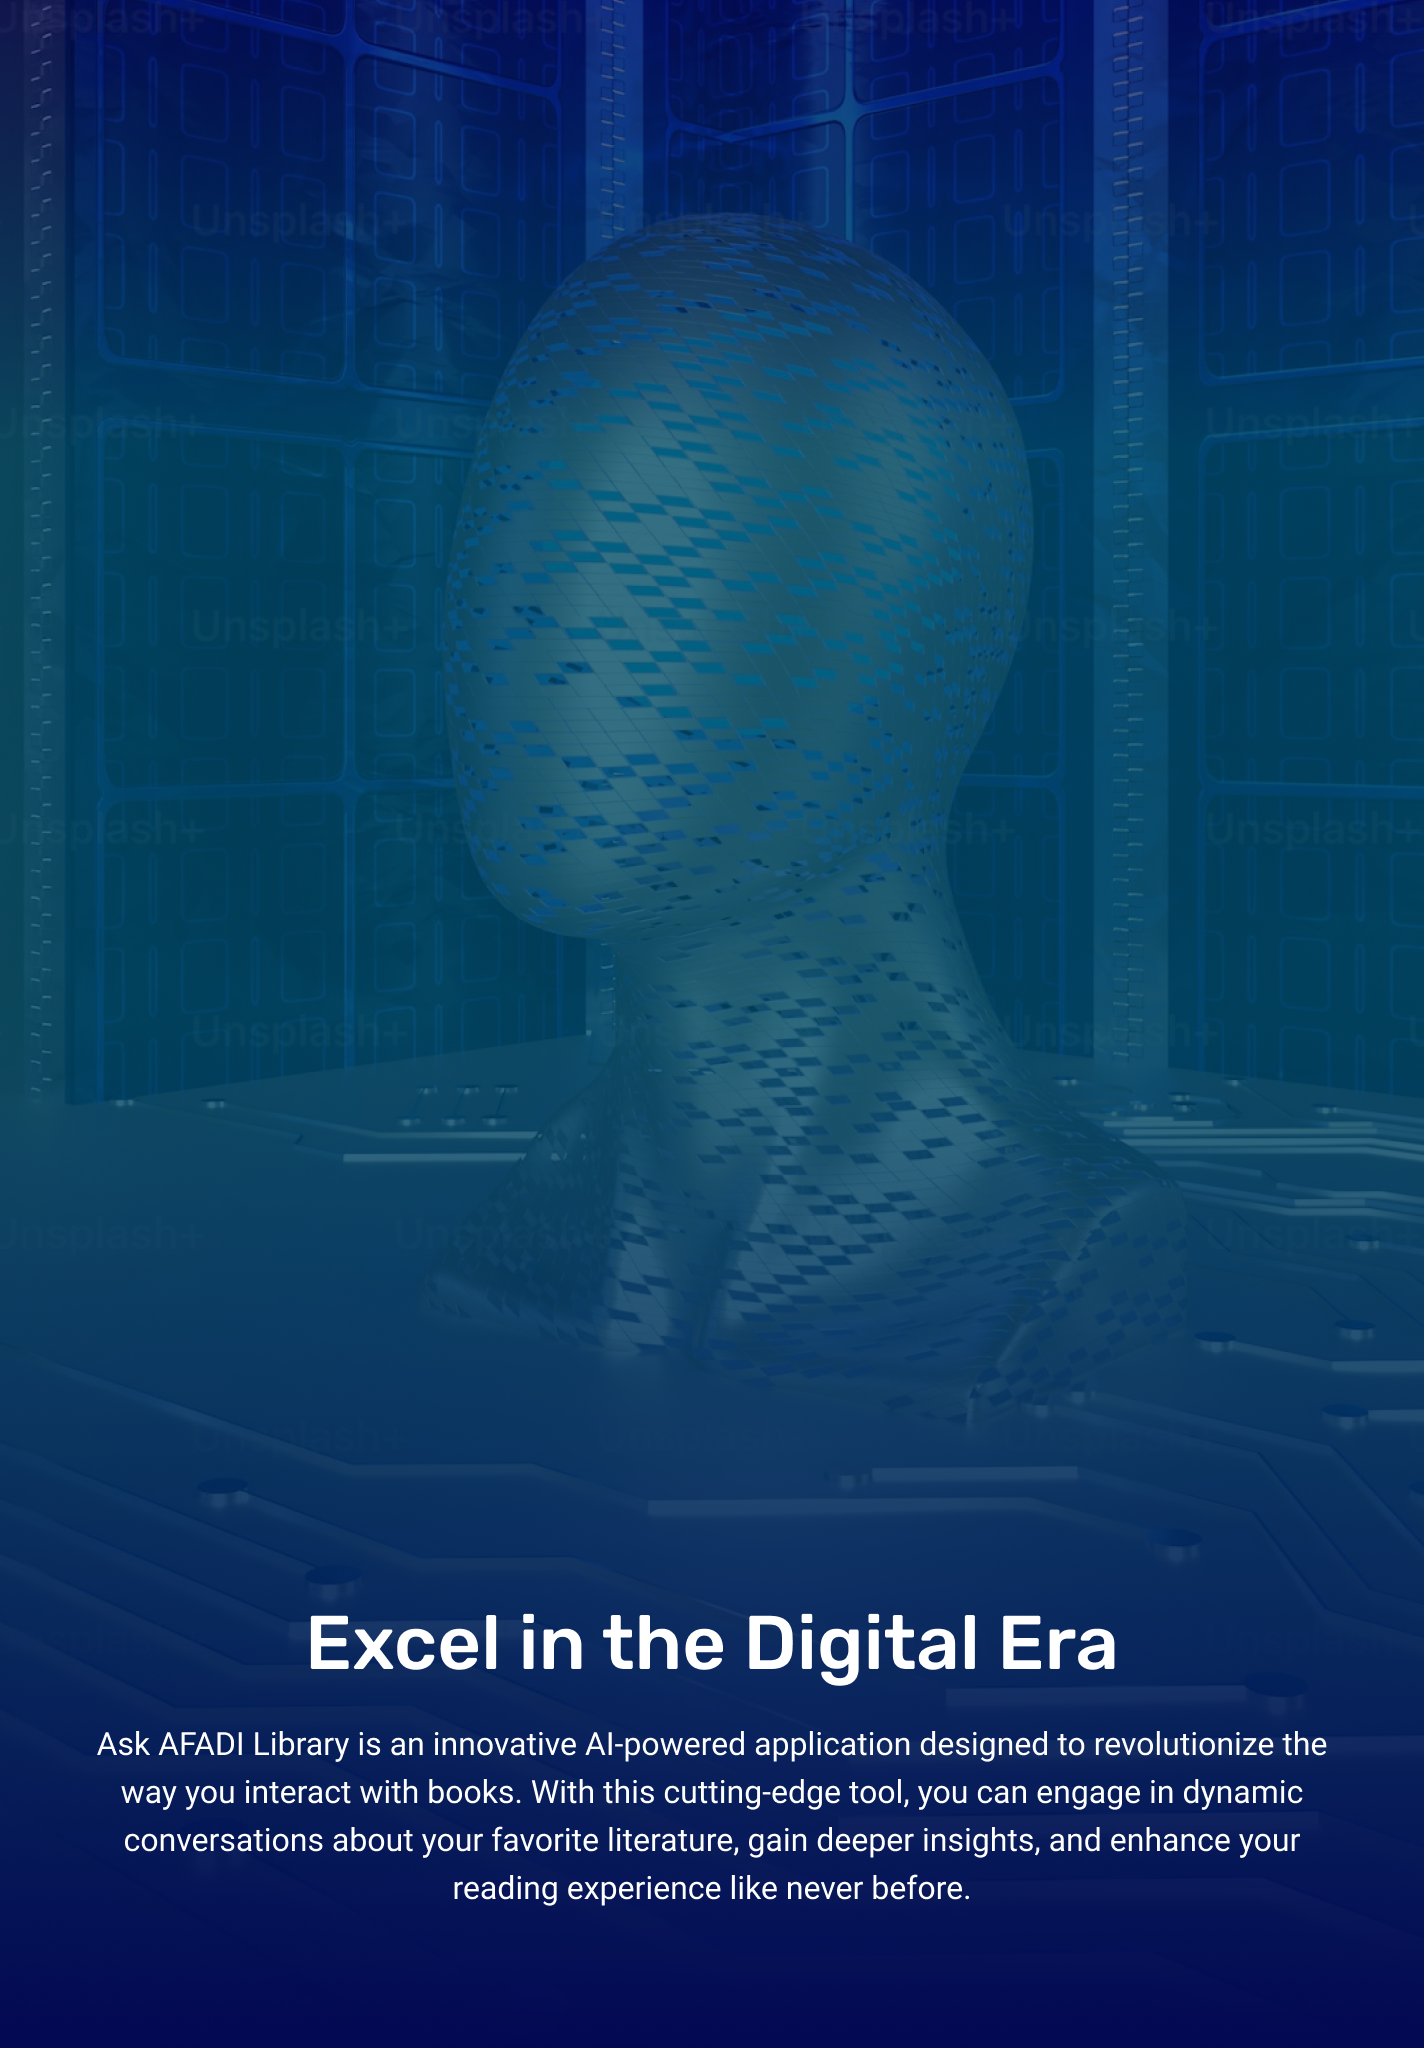
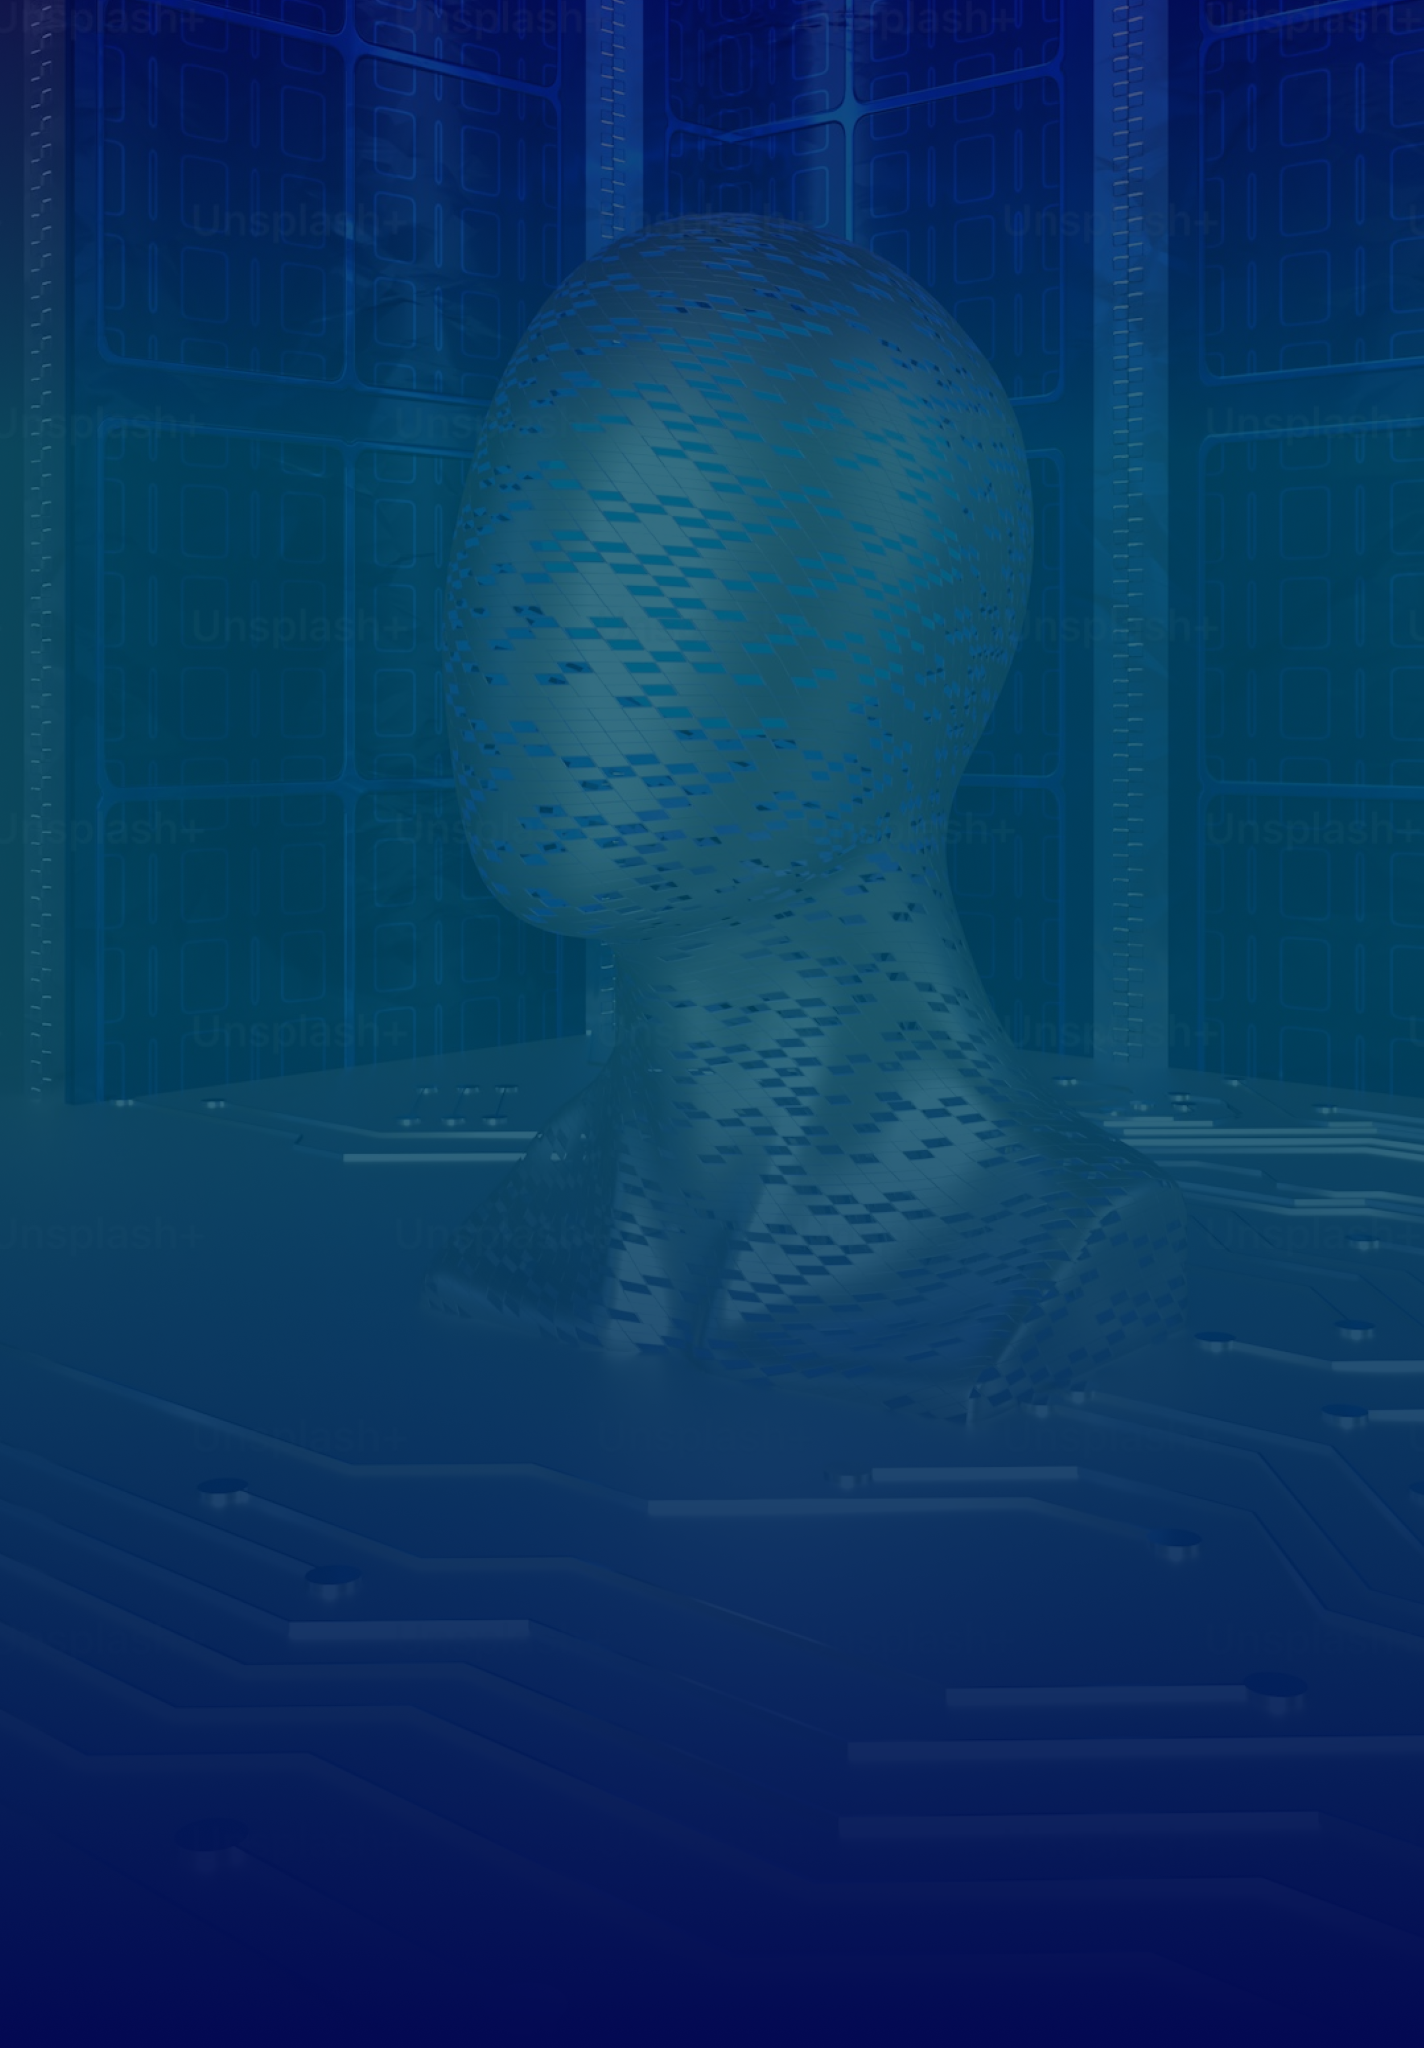
Update Login Page Text

Changed region(s): [[0.0618, 0.7812, 0.927, 0.9375]]

diff --git a/frontend/src/components/Modals/Password/index.jsx b/frontend/src/components/Modals/Password/index.jsx
@@ -36,13 +36,28 @@ export default function PasswordModal({ mode = "single" }) {
         }}
         className="absolute left-0 top-0 z-0 h-full w-full"
       />
-      <div className="hidden md:flex md:w-1/2 md:h-full md:items-center md:justify-center">
+      <div style={{ position: "relative" }} className="hidden md:flex md:w-1/2 md:h-full md:items-center md:justify-center">
         <img
           // className="w-full h-full object-contain z-50"
           className="w-full h-full z-50"
           src={illustration}
+          style={{ zIndex: 1 }}
+          // style={{ objectFit: "cover" }}
           alt="login illustration"
         />
+        <div style={{ zIndex: 2, maxWidth: "616px", position: "absolute", bottom: 60, left: 0, right: 0, margin: "auto", textAlign: "center", padding: "0px 24px", color: "white" }}>
+          <div style={{ fontWeight: 500, fontSize: "38px", lineHeight: "46px" }}>
+            Excel in the Digital Era
+          </div>
+
+          <div
+            style={{
+              fontWeight: 400, fontSize: "16px", lineHeight: "24px", marginTop: "16px"
+            }}
+          >
+            Ask AFADI Library is an innovative AI-powered application designed to revolutionize the way you interact with books. With this cutting-edge tool, you can engage in dynamic conversations about your favorite literature, gain deeper insights, and enhance your reading experience like never before.
+          </div>
+        </div>
       </div>
       <div
         style={{ background: "white" }}
